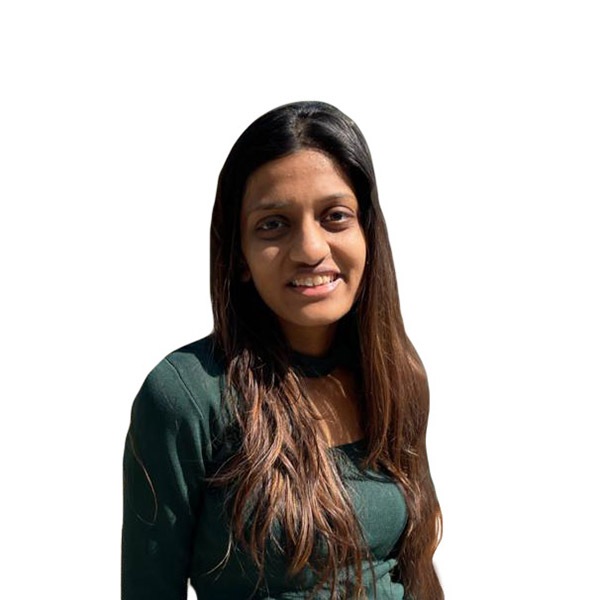
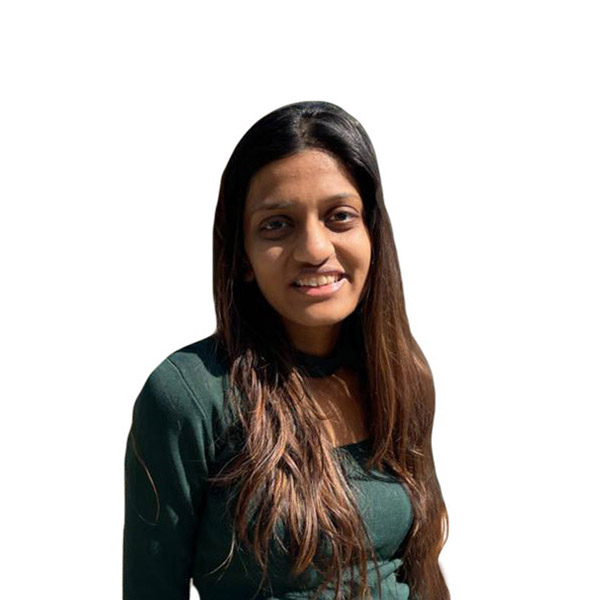
Replaced Placeholder Text for Services
Also fixed image crop for 02.jpg

diff --git a/docs/static/js/main.42e1baad.chunk.js b/docs/static/js/main.42e1baad.chunk.js
@@ -1,0 +1,2 @@
+(this.webpackJsonphslegal=this.webpackJsonphslegal||[]).push([[0],{11:function(e){e.exports=JSON.parse('{"Header":{"title1":"Welcome to","title2":"HS Legal","paragraph":"We are a Mumbai-based law firm providing legal services exclusively for startups."},"About":{"paragraph":"To give you personalized attention and cater to your needs, we are a team of individuals who will be dedicated day and night. Our legal passion and experience in law firms has driven us to start this and make it big by helping clients to get what they have come for. Our mission is to be a fast paced and work systematically. We want to be the top advisory and consultancy firms and we strongly believe that your trust in us will help us reach great heights. While IPR and general corporate and advisory services has been the core of the Firm\u2019s practice, we have actively diversified our spectrum of service offerings, with high-caliber individuals with experience across practice areas and industry sectors.","Why":["Lorem ipsum dolor","Tempor incididunt","Lorem ipsum dolor","Incididunt ut labore"],"Why2":["Aliquip ex ea commodo","Lorem ipsum dolor","Exercitation ullamco","Lorem ipsum dolor"]},"Services":[{"icon":"fa-solid fa-comments","name":"General Advisory Services","text":["General Counselling and Advisory on Legal Issues","Will and Probate, Succession/Legal Heir Certificates","Drafting and Vetting of Legal Documents","Affidavits and NOCs","Gift Deeds"]},{"icon":"fa-solid fa-building-columns","name":"Corporate Advisory","text":["Dispute Resolution - Arbitration, Mediation","Drafting Corporate Contracts/Agreements","Banking and Finance","Insolvency Laws","General Corporate Law"]},{"icon":"fa-solid fa-copyright","name":"Intellectual Property Rights","text":["IPR Matters Such As:","Trademarks","Copyrights","Patents","Designs"]},{"icon":"fa-solid fa-money-check-dollar","name":"Tax","text":["Indirect Tax","Customs Laws and FTP"]},{"icon":"fa-solid fa-building","name":"Property","text":["Property-Related Matters"]},{"icon":"fa-solid fa-plus-circle","name":"And More","text":[""]}],"Testimonials":[{"img":"img/testimonials/01.jpg","text":"\\"Lorem ipsum dolor sit amet, consectetur adipiscing elit. Duis sed dapibus leo nec ornare diam sedasd commodo nibh ante facilisis bibendum dolor feugiat at.\\"","name":"John Doe"},{"img":"img/testimonials/02.jpg","text":"\\"Lorem ipsum dolor sit amet, consectetur adipiscing elit. Duis sed dapibus leo nec ornare diam sedasd commodo nibh ante facilisis bibendum dolor feugiat at.\\"","name":"Johnathan Doe"},{"img":"img/testimonials/03.jpg","text":"\\"Lorem ipsum dolor sit amet, consectetur adipiscing elit. Duis sed dapibus leo nec ornare diam sedasd commodo nibh ante facilisis bibendum dolor feugiat at.\\"","name":"John Doe"},{"img":"img/testimonials/04.jpg","text":"\\"Lorem ipsum dolor sit amet, consectetur adipiscing elit. Duis sed dapibus leo nec ornare diam sedasd commodo nibh ante facilisis bibendum dolor feugiat at.\\"","name":"Johnathan Doe"},{"img":"img/testimonials/05.jpg","text":"\\"Lorem ipsum dolor sit amet, consectetur adipiscing elit. Duis sed dapibus leo nec ornare diam sedasd commodo nibh ante facilisis bibendum dolor feugiat at.\\"","name":"John Doe"},{"img":"img/testimonials/06.jpg","text":"\\"Lorem ipsum dolor sit amet, consectetur adipiscing elit. Duis sed dapibus leo nec ornare diam sedasd commodo nibh ante facilisis bibendum dolor feugiat at.\\"","name":"Johnathan Doe"}],"Team":[{"img":"img/team/01.jpg","name":"Hi, this is Hiloni Chheda","bio":"An enthusiastic and professional advocate currently pursuing masters in corporate law with variety of experience in IPR, Corporate law, Property Law, IBC, Testamentary matters and drafting & vetting of various legal documents."},{"img":"img/team/02.jpg","name":"Hi, this is Sanya Jhaveri","bio":"She is a Pharmacy and Law graduate. She has great zeal for IP and tax laws and has filed plenty of trademarks and copyrights in India and the US."}],"Contact":{"address":"xxx, xxx, Mumbai","phone":"+1 123 456 1234","email":"hslegalinfo@gmail.com","facebook":"fb.com","twitter":"twitter.com","youtube":"youtube.com"},"Features":[{"icon":"fa-solid fa-comments-o","title":"Lorem ipsum","text":"Lorem ipsum dolor sit amet placerat facilisis felis mi in tempus eleifend pellentesque natoque etiam."},{"icon":"fa-solid fa-bullhorn","title":"Lorem ipsum","text":"Lorem ipsum dolor sit amet placerat facilisis felis mi in tempus eleifend pellentesque natoque etiam."},{"icon":"fa-solid fa-group","title":"Lorem ipsum","text":"Lorem ipsum dolor sit amet placerat facilisis felis mi in tempus eleifend pellentesque natoque etiam."},{"icon":"fa-solid fa-magic","title":"Lorem ipsum","text":"Lorem ipsum dolor sit amet placerat facilisis felis mi in tempus eleifend pellentesque natoque etiam."}]}')},17:function(e,a,s){},22:function(e,a,s){"use strict";s.r(a);var t=s(2),i=s.n(t),c=s(8),n=s.n(c),o=(s(17),s(5)),l=s(1),r=function(e){return Object(l.jsx)("nav",{id:"menu",className:"navbar navbar-default navbar-fixed-top",children:Object(l.jsxs)("div",{className:"container",children:[Object(l.jsxs)("div",{className:"navbar-header",children:[Object(l.jsxs)("button",{type:"button",className:"navbar-toggle collapsed","data-toggle":"collapse","data-target":"#bs-example-navbar-collapse-1",children:[" ",Object(l.jsx)("span",{className:"sr-only",children:"Toggle navigation"})," ",Object(l.jsx)("span",{className:"icon-bar"})," ",Object(l.jsx)("span",{className:"icon-bar"})," ",Object(l.jsx)("span",{className:"icon-bar"})," "]}),Object(l.jsx)("a",{className:"navbar-brand page-scroll",href:"#page-top",children:"HS Legal"})," "]}),Object(l.jsx)("div",{className:"collapse navbar-collapse",id:"bs-example-navbar-collapse-1",children:Object(l.jsxs)("ul",{className:"nav navbar-nav navbar-right",children:[Object(l.jsx)("li",{children:Object(l.jsx)("a",{href:"#about",className:"page-scroll",children:"About"})}),Object(l.jsx)("li",{children:Object(l.jsx)("a",{href:"#services",className:"page-scroll",children:"Services"})}),Object(l.jsx)("li",{children:Object(l.jsx)("a",{href:"#team",className:"page-scroll",children:"Team"})}),Object(l.jsx)("li",{children:Object(l.jsx)("a",{href:"#contact",className:"page-scroll",children:"Contact Us"})})]})})]})})},d=s(9),m=function(e){return Object(l.jsx)("header",{id:"header",children:Object(l.jsxs)("div",{className:"intro",children:[Object(l.jsx)(d.a,{type:"circle",bg:{zIndex:0,position:"absolute",top:0}}),Object(l.jsx)("div",{className:"overlay",children:Object(l.jsx)("div",{className:"container",children:Object(l.jsx)("div",{className:"row",children:Object(l.jsxs)("div",{className:"col-md-8 col-md-offset-2 intro-text",children:[Object(l.jsxs)("h1",{children:[e.data?e.data.title1:"Loading"," ",Object(l.jsx)("br",{}),e.data?e.data.title2:"Loading",Object(l.jsx)("span",{})]}),Object(l.jsx)("p",{children:e.data?e.data.paragraph:"Loading"}),Object(l.jsx)("a",{href:"#about",className:"btn btn-custom btn-lg page-scroll",children:"Learn More"})," "]})})})})]})})},j=function(e){return Object(l.jsx)("div",{id:"about",children:Object(l.jsx)("div",{className:"container",children:Object(l.jsxs)("div",{className:"row",children:[Object(l.jsxs)("div",{className:"col-xs-12 col-md-6",children:[" ",Object(l.jsx)("img",{src:"img/about.jpg",className:"img-responsive",alt:""})," "]}),Object(l.jsx)("div",{className:"col-xs-12 col-md-6",children:Object(l.jsxs)("div",{className:"about-text",children:[Object(l.jsx)("h2",{children:"About Us"}),Object(l.jsx)("p",{children:e.data?e.data.paragraph:"loading..."})]})})]})})})},b=function(e){return Object(l.jsx)("div",{id:"services",className:"text-center",children:Object(l.jsxs)("div",{className:"container",children:[Object(l.jsxs)("div",{className:"section-title",children:[Object(l.jsx)("h2",{children:"Our Services"}),Object(l.jsx)("p",{children:"Our team has expertise in the following areas:"})]}),Object(l.jsx)("div",{className:"row",children:e.data?e.data.map((function(e,a){return Object(l.jsxs)("div",{className:"col-md-4",children:[" ",Object(l.jsx)("i",{className:e.icon}),Object(l.jsxs)("div",{className:"service-desc",children:[Object(l.jsx)("h3",{children:e.name}),Object(l.jsx)("div",{className:"list-style",children:Object(l.jsx)("ul",{children:e.text?e.text.map((function(e,a){return Object(l.jsx)("li",{children:e},"".concat(e,"-").concat(a))})):"loading"})})]})]},"".concat(e.name,"-").concat(a))})):"loading"})]})})},h=function(e){return Object(l.jsx)("div",{id:"team",className:"text-center",children:Object(l.jsxs)("div",{className:"container",children:[Object(l.jsx)("div",{className:"col-md-8 col-md-offset-2 section-title",children:Object(l.jsx)("h2",{children:"Meet the Team"})}),Object(l.jsx)("div",{id:"row",children:e.data?e.data.map((function(e,a){return Object(l.jsx)("div",{className:"col-md-6 col-sm-6 team",children:Object(l.jsxs)("div",{className:"thumbnail",children:[" ",Object(l.jsx)("img",{src:e.img,alt:"...",className:"team-img"}),Object(l.jsxs)("div",{className:"caption",children:[Object(l.jsx)("h4",{children:e.name}),Object(l.jsx)("p",{children:e.bio})]})]})},"".concat(e.name,"-").concat(a))})):"loading"})]})})},u=s(4),x=s(6),p=s(10),g=s.n(p),f={name:"",email:"",message:""},O=function(e){var a=Object(t.useState)(f),s=Object(o.a)(a,2),i=s[0],c=(i.name,i.email,i.message,s[1]),n=function(e){var a=e.target,s=a.name,t=a.value;c((function(e){return Object(x.a)(Object(x.a)({},e),{},Object(u.a)({},s,t))}))};return Object(l.jsx)("div",{children:Object(l.jsx)("div",{id:"contact",children:Object(l.jsxs)("div",{className:"container",children:[Object(l.jsx)("div",{className:"col-md-8",children:Object(l.jsxs)("div",{className:"row",children:[Object(l.jsxs)("div",{className:"section-title",children:[Object(l.jsx)("h2",{children:"Get In Touch"}),Object(l.jsx)("p",{children:"Please fill out the form below to send us an email and we will get back to you as soon as possible."})]}),Object(l.jsxs)("form",{name:"sentMessage",validate:!0,onSubmit:function(e){e.preventDefault(),g.a.sendForm("YOUR_SERVICE_ID","YOUR_TEMPLATE_ID",e.target,"YOUR_USER_ID").then((function(e){console.log(e.text),c(Object(x.a)({},f))}),(function(e){console.log(e.text)}))},children:[Object(l.jsxs)("div",{className:"row",children:[Object(l.jsx)("div",{className:"col-md-6",children:Object(l.jsxs)("div",{className:"form-group",children:[Object(l.jsx)("input",{type:"text",id:"name",name:"name",className:"form-control",placeholder:"Name",required:!0,onChange:n}),Object(l.jsx)("p",{className:"help-block text-danger"})]})}),Object(l.jsx)("div",{className:"col-md-6",children:Object(l.jsxs)("div",{className:"form-group",children:[Object(l.jsx)("input",{type:"email",id:"email",name:"email",className:"form-control",placeholder:"Email",required:!0,onChange:n}),Object(l.jsx)("p",{className:"help-block text-danger"})]})})]}),Object(l.jsxs)("div",{className:"form-group",children:[Object(l.jsx)("textarea",{name:"message",id:"message",className:"form-control",rows:"4",placeholder:"Message",required:!0,onChange:n}),Object(l.jsx)("p",{className:"help-block text-danger"})]}),Object(l.jsx)("div",{id:"success"}),Object(l.jsx)("button",{type:"submit",className:"btn btn-custom btn-lg",children:"Send Message"})]})]})}),Object(l.jsxs)("div",{className:"col-md-3 col-md-offset-1 contact-info",children:[Object(l.jsxs)("div",{className:"contact-item",children:[Object(l.jsx)("h3",{children:"Contact Info"}),Object(l.jsxs)("p",{children:[Object(l.jsxs)("span",{children:[Object(l.jsx)("i",{className:"fa-solid fa-map-marker"})," Address"]}),e.data?e.data.address:"loading"]})]}),Object(l.jsx)("div",{className:"contact-item",children:Object(l.jsxs)("p",{children:[Object(l.jsxs)("span",{children:[Object(l.jsx)("i",{className:"fa-solid fa-phone"})," Phone"]})," ",e.data?e.data.phone:"loading"]})}),Object(l.jsx)("div",{className:"contact-item",children:Object(l.jsxs)("p",{children:[Object(l.jsxs)("span",{children:[Object(l.jsx)("i",{className:"fa-solid fa-envelope"})," Email"]})," ",e.data?e.data.email:"loading"]})})]}),Object(l.jsx)("div",{className:"col-md-12",children:Object(l.jsx)("div",{className:"row",children:Object(l.jsx)("div",{className:"social",children:Object(l.jsxs)("ul",{children:[Object(l.jsx)("li",{children:Object(l.jsx)("a",{href:e.data?e.data.facebook:"/",children:Object(l.jsx)("i",{className:"fa-brands fa-facebook"})})}),Object(l.jsx)("li",{children:Object(l.jsx)("a",{href:e.data?e.data.twitter:"/",children:Object(l.jsx)("i",{className:"fa-brands fa-twitter"})})}),Object(l.jsx)("li",{children:Object(l.jsx)("a",{href:e.data?e.data.youtube:"/",children:Object(l.jsx)("i",{className:"fa-brands fa-youtube"})})})]})})})})]})})})},v=s(11),N=s(12),y=(new(s.n(N).a)('a[href*="#"]',{speed:1e3,speedAsDuration:!0}),function(){var e=Object(t.useState)({}),a=Object(o.a)(e,2),s=a[0],i=a[1];return Object(t.useEffect)((function(){i(v)}),[]),Object(l.jsxs)("div",{children:[Object(l.jsx)(r,{}),Object(l.jsx)(m,{data:s.Header}),Object(l.jsx)(j,{data:s.About}),Object(l.jsx)(b,{data:s.Services}),Object(l.jsx)(h,{data:s.Team}),Object(l.jsx)(O,{data:s.Contact})]})});Boolean("localhost"===window.location.hostname||"[::1]"===window.location.hostname||window.location.hostname.match(/^127(?:\.(?:25[0-5]|2[0-4][0-9]|[01]?[0-9][0-9]?)){3}$/));n.a.render(Object(l.jsx)(i.a.StrictMode,{children:Object(l.jsx)(y,{})}),document.getElementById("root")),"serviceWorker"in navigator&&navigator.serviceWorker.ready.then((function(e){e.unregister()})).catch((function(e){console.error(e.message)}))}},[[22,1,2]]]);
+//# sourceMappingURL=main.42e1baad.chunk.js.map

diff --git a/docs/index.html b/docs/index.html
@@ -1,1 +1,1 @@
-<head><meta charset="utf-8"/><meta name="viewport" content="width=device-width,initial-scale=1"/><link rel="shortcut icon" href="img/favicon.ico" type="image/x-icon"/><link rel="apple-touch-icon" href="img/apple-touch-icon.png"/><link rel="apple-touch-icon" sizes="72x72" href="img/apple-touch-icon-72x72.png"/><link rel="apple-touch-icon" sizes="114x114" href="img/apple-touch-icon-114x114.png"/><link rel="stylesheet" href="css/bootstrap.css"/><link rel="stylesheet" href="fonts/fontawesome/css/all.css"/><link rel="stylesheet" href="css/style.css"/><link rel="stylesheet" href="css/nivo-lightbox/nivo-lightbox.css"/><link rel="stylesheet" href="css/nivo-lightbox/default.css"/><link href="https://fonts.googleapis.com/css?family=Open+Sans:300,400,600,700" rel="stylesheet"/><link href="https://fonts.googleapis.com/css?family=Lato:400,700" rel="stylesheet"/><link href="https://fonts.googleapis.com/css?family=Raleway:300,400,500,600,700,800,900" rel="stylesheet"/><title>HS Legal</title><meta name="description" content=""/><meta name="author" content="HS Legal"/><link href="./static/css/main.2ae47eeb.chunk.css" rel="stylesheet"></head><body id="page-top" data-spy="scroll" data-target=".navbar-fixed-top"><div id="root"></div><script type="text/javascript" src="js/jquery.1.11.1.js"></script><script type="text/javascript" src="js/bootstrap.js"></script><script>!function(e){function r(r){for(var n,l,a=r[0],f=r[1],i=r[2],c=0,s=[];c<a.length;c++)l=a[c],Object.prototype.hasOwnProperty.call(o,l)&&o[l]&&s.push(o[l][0]),o[l]=0;for(n in f)Object.prototype.hasOwnProperty.call(f,n)&&(e[n]=f[n]);for(p&&p(r);s.length;)s.shift()();return u.push.apply(u,i||[]),t()}function t(){for(var e,r=0;r<u.length;r++){for(var t=u[r],n=!0,a=1;a<t.length;a++){var f=t[a];0!==o[f]&&(n=!1)}n&&(u.splice(r--,1),e=l(l.s=t[0]))}return e}var n={},o={1:0},u=[];function l(r){if(n[r])return n[r].exports;var t=n[r]={i:r,l:!1,exports:{}};return e[r].call(t.exports,t,t.exports,l),t.l=!0,t.exports}l.m=e,l.c=n,l.d=function(e,r,t){l.o(e,r)||Object.defineProperty(e,r,{enumerable:!0,get:t})},l.r=function(e){"undefined"!=typeof Symbol&&Symbol.toStringTag&&Object.defineProperty(e,Symbol.toStringTag,{value:"Module"}),Object.defineProperty(e,"__esModule",{value:!0})},l.t=function(e,r){if(1&r&&(e=l(e)),8&r)return e;if(4&r&&"object"==typeof e&&e&&e.__esModule)return e;var t=Object.create(null);if(l.r(t),Object.defineProperty(t,"default",{enumerable:!0,value:e}),2&r&&"string"!=typeof e)for(var n in e)l.d(t,n,function(r){return e[r]}.bind(null,n));return t},l.n=function(e){var r=e&&e.__esModule?function(){return e.default}:function(){return e};return l.d(r,"a",r),r},l.o=function(e,r){return Object.prototype.hasOwnProperty.call(e,r)},l.p="./";var a=this.webpackJsonphslegal=this.webpackJsonphslegal||[],f=a.push.bind(a);a.push=r,a=a.slice();for(var i=0;i<a.length;i++)r(a[i]);var p=f;t()}([])</script><script src="./static/js/2.120af73b.chunk.js"></script><script src="./static/js/main.85f16920.chunk.js"></script></body>
+<head><meta charset="utf-8"/><meta name="viewport" content="width=device-width,initial-scale=1"/><link rel="shortcut icon" href="img/favicon.ico" type="image/x-icon"/><link rel="apple-touch-icon" href="img/apple-touch-icon.png"/><link rel="apple-touch-icon" sizes="72x72" href="img/apple-touch-icon-72x72.png"/><link rel="apple-touch-icon" sizes="114x114" href="img/apple-touch-icon-114x114.png"/><link rel="stylesheet" href="css/bootstrap.css"/><link rel="stylesheet" href="fonts/fontawesome/css/all.css"/><link rel="stylesheet" href="css/style.css"/><link rel="stylesheet" href="css/nivo-lightbox/nivo-lightbox.css"/><link rel="stylesheet" href="css/nivo-lightbox/default.css"/><link href="https://fonts.googleapis.com/css?family=Open+Sans:300,400,600,700" rel="stylesheet"/><link href="https://fonts.googleapis.com/css?family=Lato:400,700" rel="stylesheet"/><link href="https://fonts.googleapis.com/css?family=Raleway:300,400,500,600,700,800,900" rel="stylesheet"/><title>HS Legal</title><meta name="description" content=""/><meta name="author" content="HS Legal"/><link href="./static/css/main.2ae47eeb.chunk.css" rel="stylesheet"></head><body id="page-top" data-spy="scroll" data-target=".navbar-fixed-top"><div id="root"></div><script type="text/javascript" src="js/jquery.1.11.1.js"></script><script type="text/javascript" src="js/bootstrap.js"></script><script>!function(e){function r(r){for(var n,l,a=r[0],f=r[1],i=r[2],c=0,s=[];c<a.length;c++)l=a[c],Object.prototype.hasOwnProperty.call(o,l)&&o[l]&&s.push(o[l][0]),o[l]=0;for(n in f)Object.prototype.hasOwnProperty.call(f,n)&&(e[n]=f[n]);for(p&&p(r);s.length;)s.shift()();return u.push.apply(u,i||[]),t()}function t(){for(var e,r=0;r<u.length;r++){for(var t=u[r],n=!0,a=1;a<t.length;a++){var f=t[a];0!==o[f]&&(n=!1)}n&&(u.splice(r--,1),e=l(l.s=t[0]))}return e}var n={},o={1:0},u=[];function l(r){if(n[r])return n[r].exports;var t=n[r]={i:r,l:!1,exports:{}};return e[r].call(t.exports,t,t.exports,l),t.l=!0,t.exports}l.m=e,l.c=n,l.d=function(e,r,t){l.o(e,r)||Object.defineProperty(e,r,{enumerable:!0,get:t})},l.r=function(e){"undefined"!=typeof Symbol&&Symbol.toStringTag&&Object.defineProperty(e,Symbol.toStringTag,{value:"Module"}),Object.defineProperty(e,"__esModule",{value:!0})},l.t=function(e,r){if(1&r&&(e=l(e)),8&r)return e;if(4&r&&"object"==typeof e&&e&&e.__esModule)return e;var t=Object.create(null);if(l.r(t),Object.defineProperty(t,"default",{enumerable:!0,value:e}),2&r&&"string"!=typeof e)for(var n in e)l.d(t,n,function(r){return e[r]}.bind(null,n));return t},l.n=function(e){var r=e&&e.__esModule?function(){return e.default}:function(){return e};return l.d(r,"a",r),r},l.o=function(e,r){return Object.prototype.hasOwnProperty.call(e,r)},l.p="./";var a=this.webpackJsonphslegal=this.webpackJsonphslegal||[],f=a.push.bind(a);a.push=r,a=a.slice();for(var i=0;i<a.length;i++)r(a[i]);var p=f;t()}([])</script><script src="./static/js/2.120af73b.chunk.js"></script><script src="./static/js/main.42e1baad.chunk.js"></script></body>

diff --git a/src/components/services.jsx b/src/components/services.jsx
@@ -16,7 +16,15 @@ export const Services = (props) => {
                   <i className={d.icon}></i>
                   <div className='service-desc'>
                     <h3>{d.name}</h3>
-                    <p>{d.text}</p>
+                    <div className='list-style'>
+                    <ul>
+                    {d.text
+                      ? d.text.map((d_, i_) => (
+                          <li key={`${d_}-${i_}`}>{d_}</li>
+                        ))
+                      : 'loading'}
+                    </ul>
+                    </div>
                   </div>
                 </div>
               ))

diff --git a/docs/css/style.css b/docs/css/style.css
@@ -323,7 +323,7 @@ header .intro-text {
 	padding: 5px 0;
 	color: #fff;
 }
-#services p {
+#services ul {
 	color: rgba(255,255,255,.75);
 }
 #services .service-desc {

diff --git a/public/css/style.css b/public/css/style.css
@@ -323,7 +323,7 @@ header .intro-text {
 	padding: 5px 0;
 	color: #fff;
 }
-#services p {
+#services ul {
 	color: rgba(255,255,255,.75);
 }
 #services .service-desc {
